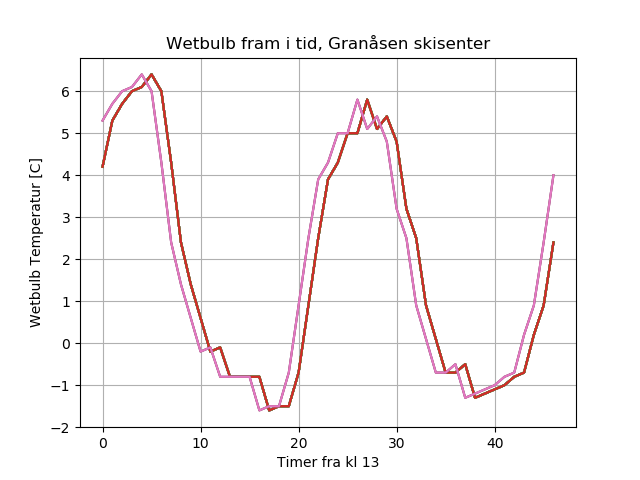
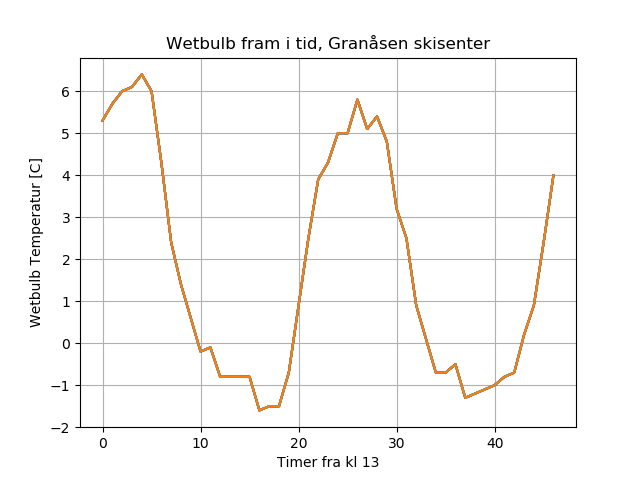
Nettside
serveren overkjører ikke endringene som skjer på nettsiden lengre

Changed region(s): [[0.1562, 0.1562, 0.875, 0.875]]

diff --git a/lanseside/startside/static/lansestyring/lansestyring.js b/lanseside/startside/static/lansestyring/lansestyring.js
@@ -43,7 +43,7 @@ function leggtilknapper() {
             stegvalgknapper.setAttribute("class", "radiogruppene");
             stegvalgknapper.setAttribute("value", iknapper + 1);
             stegvalgknapper.setAttribute("id", iknapper);
-            stegvalgknapper.setAttribute("onClick", "oppd_server(String(document.getElementById('lansenummer').value), { 'man_steg': document.getElementById('"+iknapper+"').id })")
+            stegvalgknapper.setAttribute("onClick", "window.ktrykk = 1; oppd_server(String(document.getElementById('lansenummer').value), { 'man_steg': document.getElementById('"+iknapper+"').id })")
 
             /*Legger til Tekst som står ved siden av knappene*/
             nodelabel = document.createElement("LABEL");
@@ -182,6 +182,7 @@ function hent_server_data(id) {
 }
 
 function oppd_side() {
+    //window.ktrykk = 0
     token = getCookie('csrftoken');
     data = {
         'csrfmiddlewaretoken': token,
@@ -194,6 +195,7 @@ function oppd_side() {
 
     posting.done(function (data) {
         sidedata = $(data);
+        if (window.ktrykk == 1) { console.log('ikkekjør'); return 0}
 
         document.getElementById('temperatur').value = sidedata[0].lanse.temperatur.toString() + ' Celsius';
         document.getElementById('vtrykk').value = sidedata[0].lanse.vtrykk.toString() + ' Bar';

diff --git a/lanseside/startside/templates/lansestyring/lansestyring.html b/lanseside/startside/templates/lansestyring/lansestyring.html
@@ -49,7 +49,7 @@
             <!--Auto knapp-->
             <li>
                 <label class="container">
-                    Auto <input name="radio" type="radio" id="auto" onclick="automan();
+                    Auto <input name="radio" type="radio" id="auto" onclick="automan(); window.ktrykk = 1;
     oppd_server(String(document.getElementById('lansenummer').value), { 'auto_man': 1 })" value="{{auto_man}}"> <span class="checkmark"></span>
                 </label>
             </li>
@@ -57,7 +57,7 @@
             <!--Manuell knapp-->
             <li>
                 <label class="container">
-                    Manuell <input name="radio" type="radio" id="manuell" onclick="automan();
+                    Manuell <input name="radio" type="radio" id="manuell" onclick="automan(); window.ktrykk = 1;
     oppd_server(String(document.getElementById('lansenummer').value), { 'auto_man': 0 })" value="manuell"> <span class="checkmark"></span>
                 </label>
             </li>
